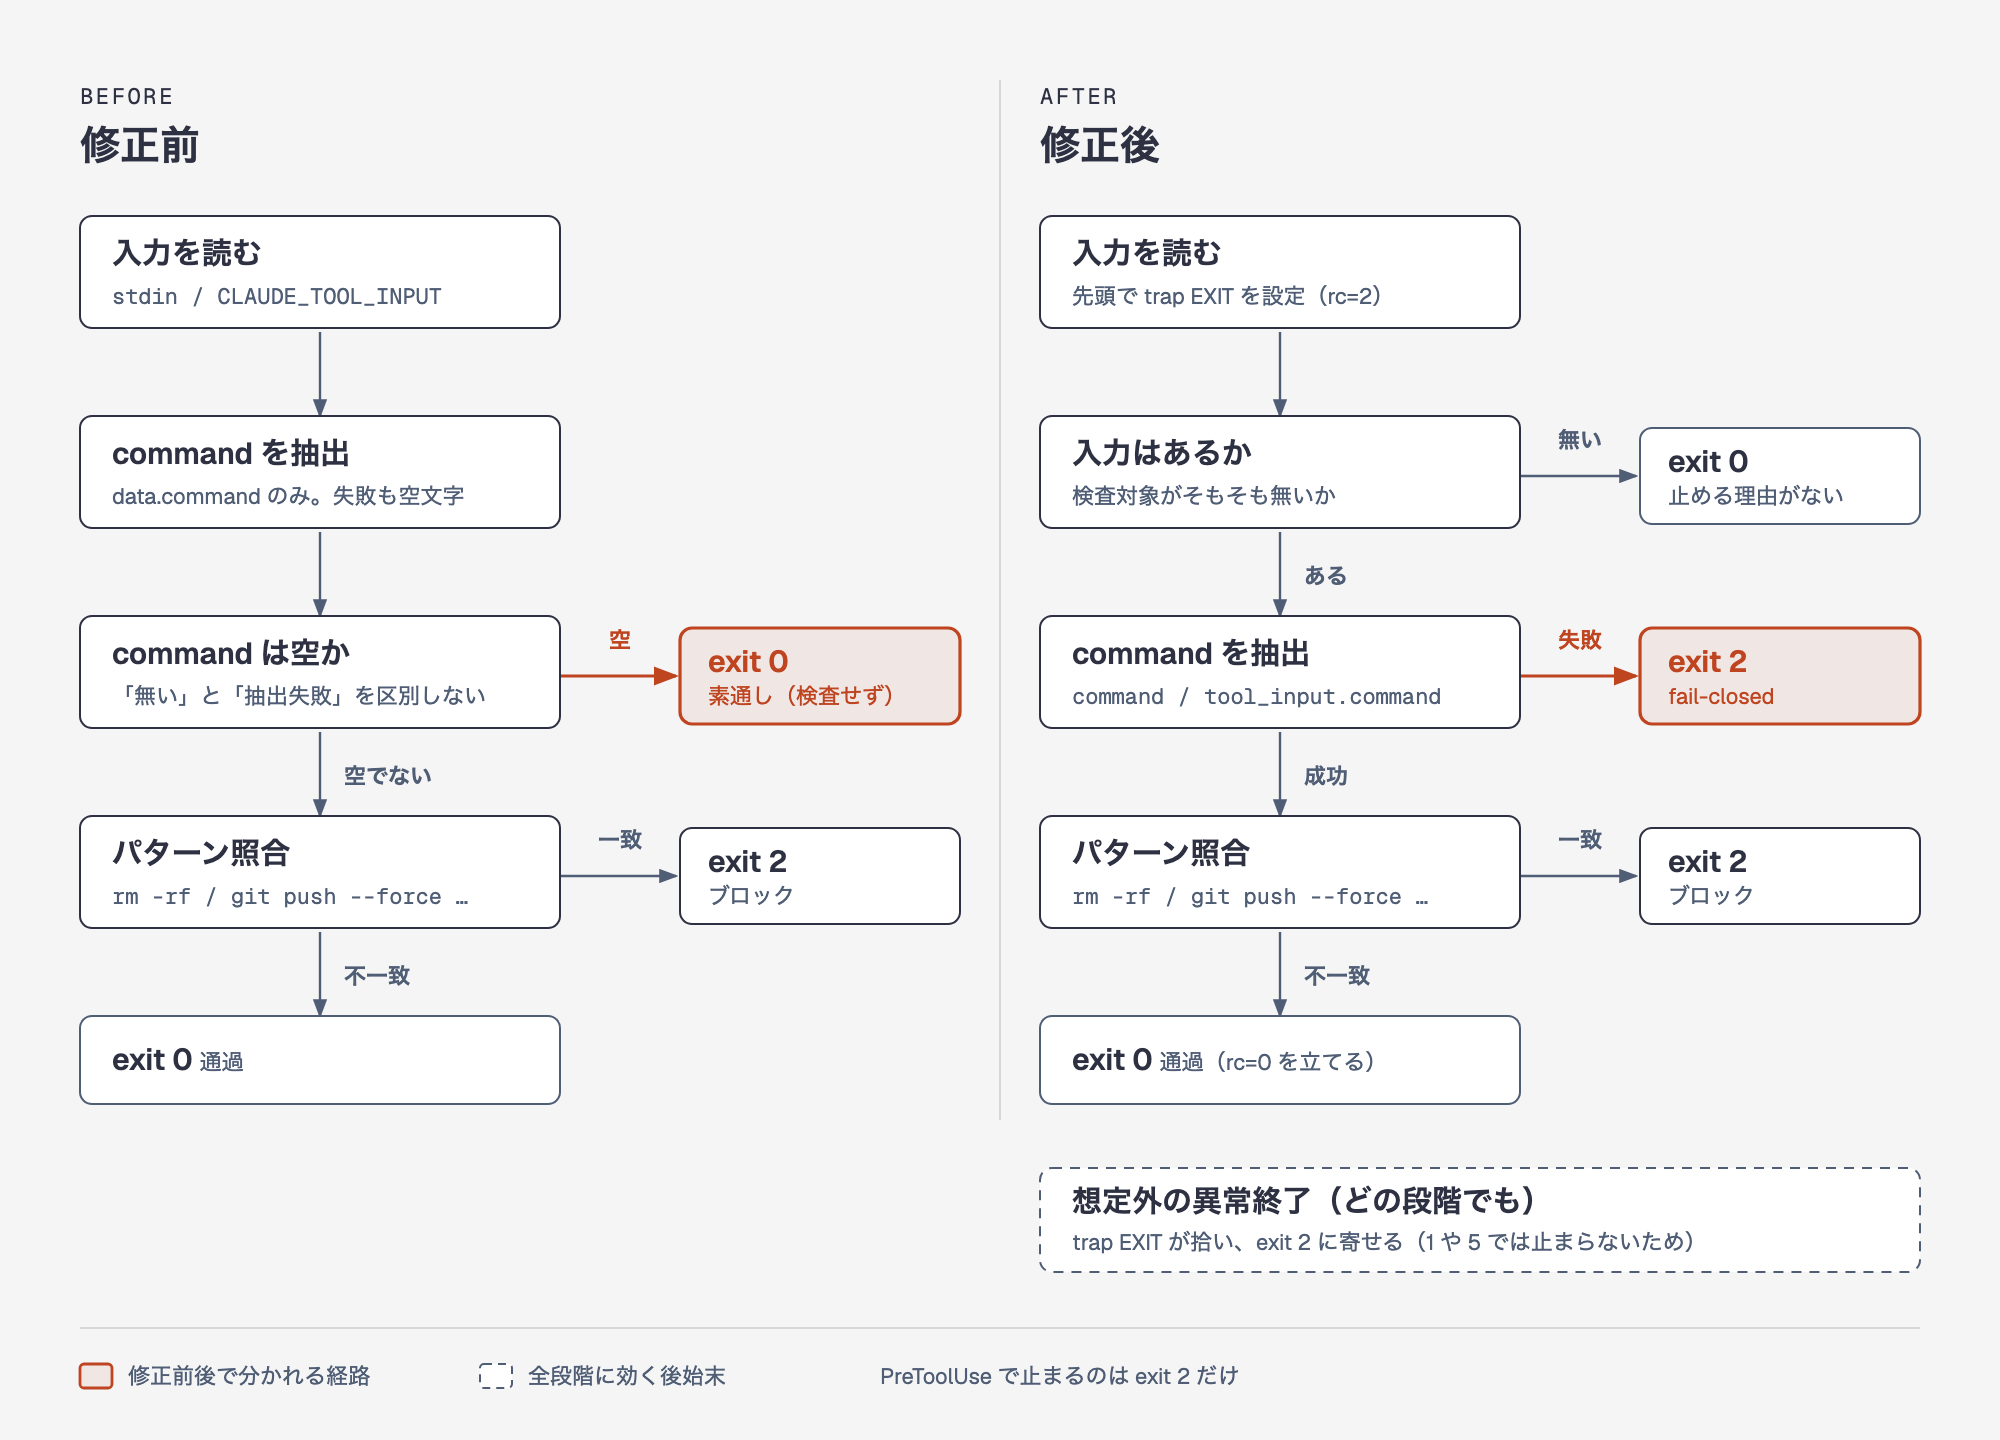
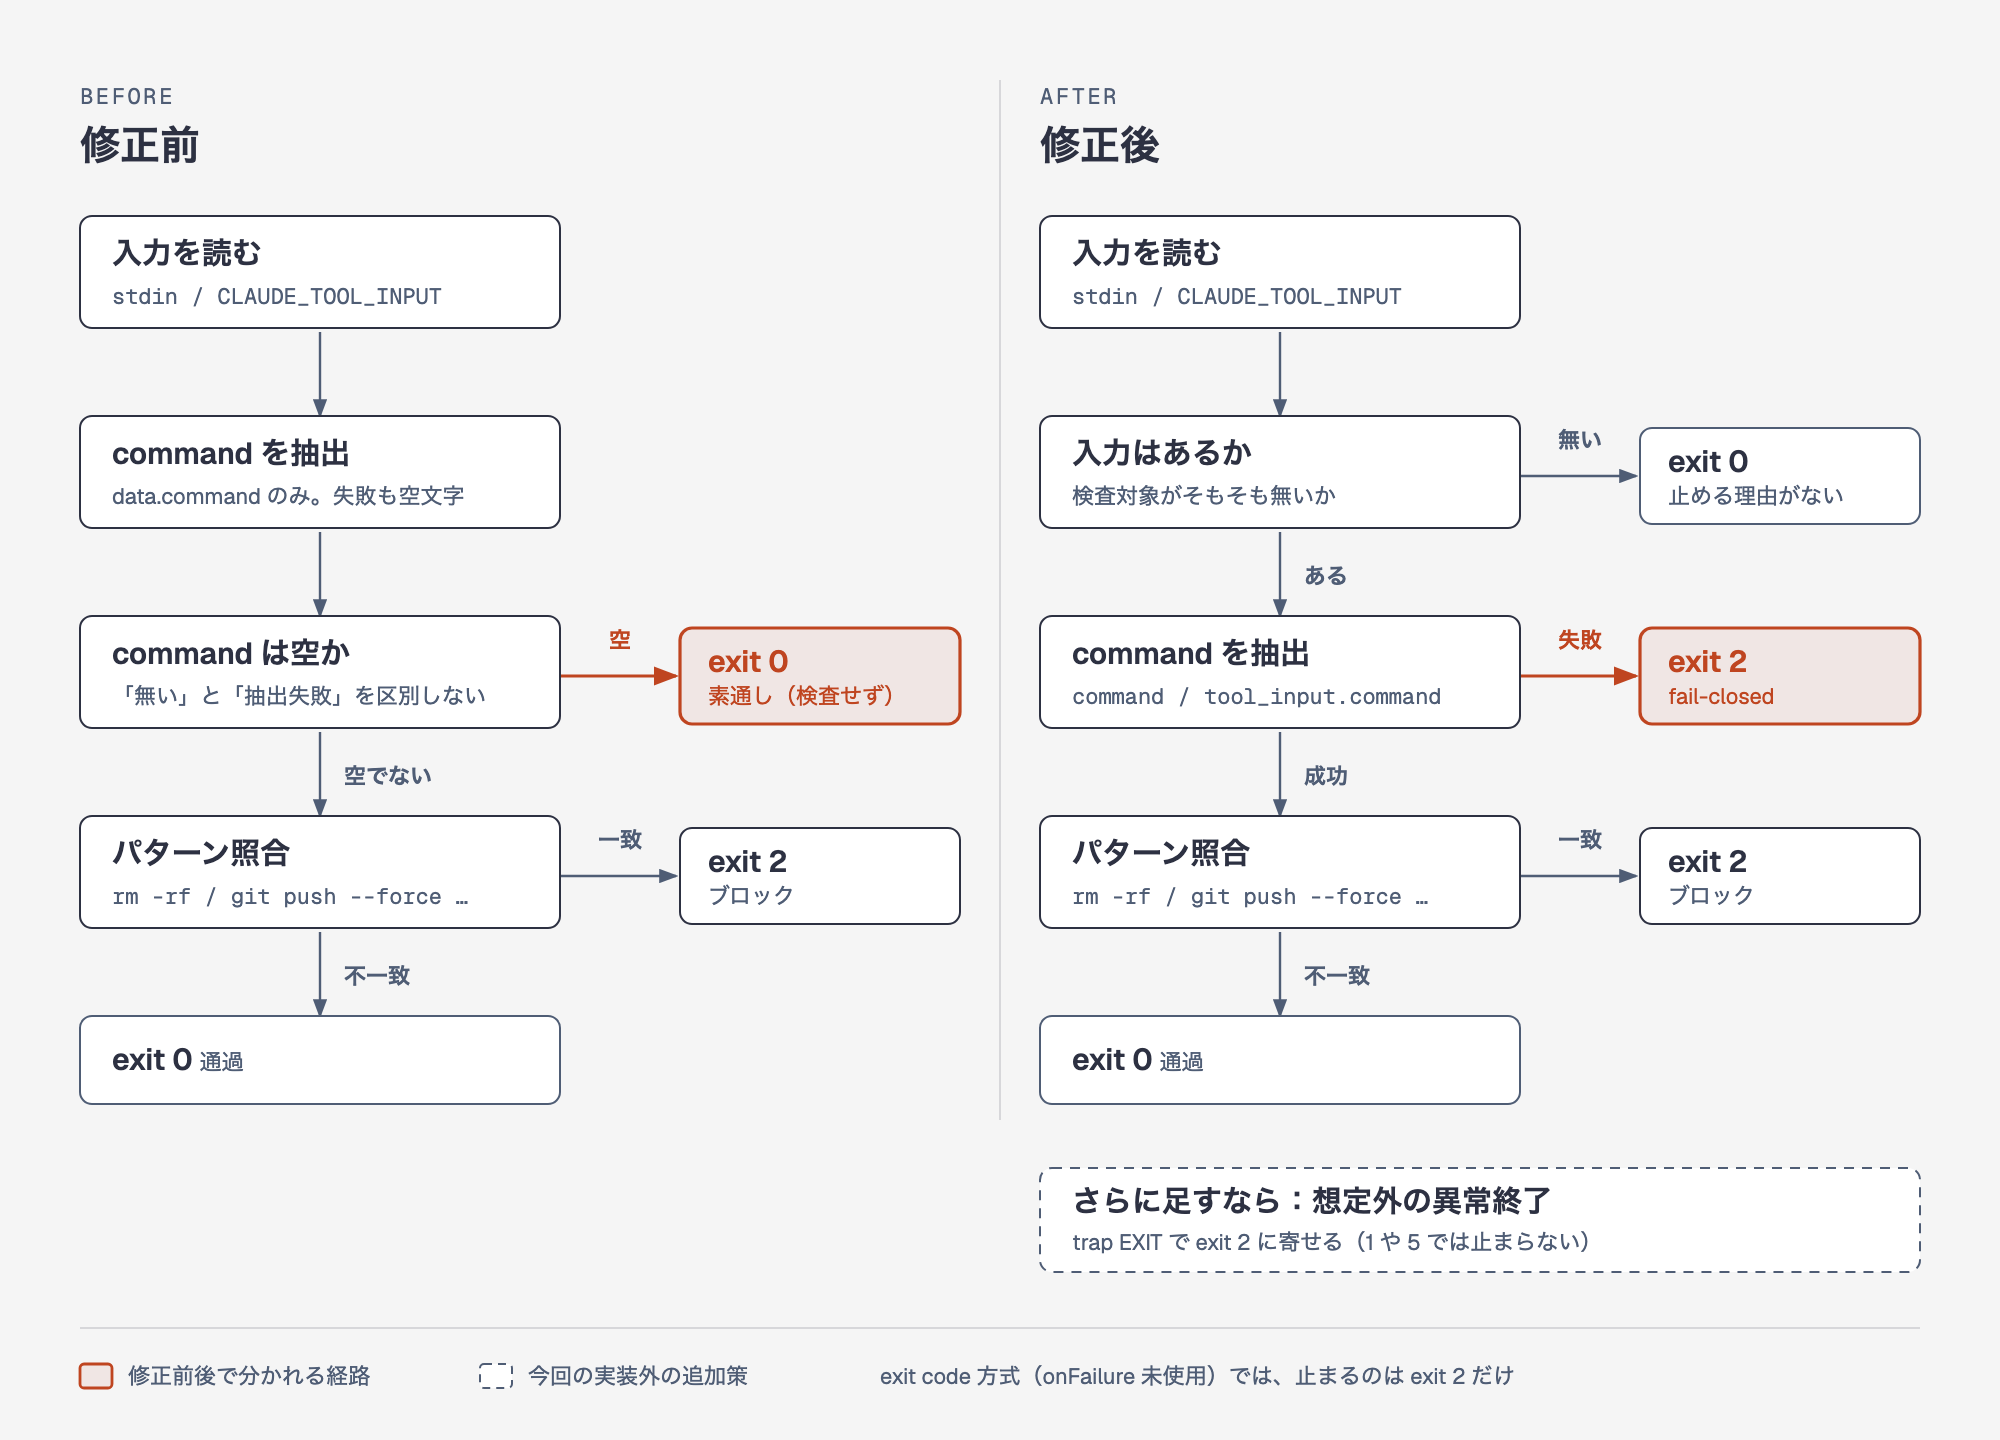
docs(zenn): mark trap EXIT as optional and qualify exit 2 claim in hook-fail-open

diff --git a/articles/claude-code-hook-fail-open.md b/articles/claude-code-hook-fail-open.md
@@ -278,7 +278,9 @@ if [ -z "$tool_input" ] && [ -z "$command" ]; then
 fi
 ```
 
-![修正前は command が空なら exit 0 で素通しし、修正後は入力が無いときだけ通して抽出失敗と異常終了を exit 2 で止める判定フローの比較](/images/claude-code-hook-fail-open/decision-flow.png)
+修正前後の判定の流れを並べると、次のようになります。
+
+![修正前は command が空なら exit 0 で素通しし、修正後は入力が無いときだけ通して抽出失敗を exit 2 で止める判定フローの比較](/images/claude-code-hook-fail-open/decision-flow.png)
 
 変えたのは 3 点です。
 
@@ -290,10 +292,10 @@ fi
 
 そのうえで、抽出に失敗したら `exit 2` で止めます。
 
-もうひとつ、**スクリプト自身が途中で死んだときも `exit 2` に寄せます**。`set -euo pipefail` のままだと、想定外のエラーで死んだときの終了コードは 2 以外になり、「exit code 2 以外は、ブロックではない」で見たとおりツール呼び出しは進みます。前節の `jq` 版が壊れた JSON で `exit 5` になって進んだのと同じ経路が、この実装にも残ります。スクリプトの先頭に次の 1 行を置いて、意図しない死に方も止める側へ倒しておきます。
+今回の修正はここまでです。ただし、**スクリプト自身が途中で死んだときの経路は残っています**。`set -euo pipefail` のままだと、想定外のエラーで死んだときの終了コードは 2 以外になり、「exit code 2 以外は、ブロックではない」で見たとおりツール呼び出しは進みます。前節の `jq` 版が壊れた JSON で `exit 5` になって進んだのと同じ経路です。さらに足すなら、スクリプトの先頭に次の 2 行を置いて、意図しない死に方も止める側へ倒せます。
 
 ```bash
-# 正常終了の直前で rc=0 に落とす。それ以外の抜け方はすべて exit 2 になる
+# 意図して exit 0 する箇所では、直前で rc=0 を立てる。それ以外の抜け方は exit 2 になる
 rc=2
 trap '[ "$rc" -eq 0 ] || { echo "[safety] Blocked: hook が異常終了しました（fail-closed）。" >&2; exit 2; }' EXIT
 ```
@@ -306,7 +308,7 @@ trap '[ "$rc" -eq 0 ] || { echo "[safety] Blocked: hook が異常終了しまし
 | `set -u` の unbound 変数 | **1** | 2 |
 | 関数の中での失敗（`set -E` 無し） | **1** | 2 |
 
-`exit 1` はブロックになりません。**意図しない死に方ほど `ERR` をすり抜ける**ので、抜け道のない `EXIT` に寄せます。処理を最後まで通したら `rc=0` を立ててから `exit 0` します。
+`exit 1` はブロックになりません。**意図しない死に方ほど `ERR` をすり抜ける**ので、より広く拾える `EXIT` に寄せます。ただし `trap` を設定する前の失敗や、`SIGKILL` での強制終了までは拾えません。入力が無いときの `exit 0` も含め、意図して通す箇所ではすべて `rc=0` を立ててから `exit 0` します。
 
 ### フォールバックは「使わない」という選択もある
 
@@ -401,7 +403,7 @@ printf '%s' '{"tool_input":{"command":"rm -rf /"}}' \
 }
 ```
 
-スクリプト内の fail-closed（抽出失敗で `exit 2`、`trap EXIT`）と併用でき、スクリプトのパス間違いのように**スクリプトの外で起きる失敗**も止められます。一方、抽出に失敗しても `exit 0` で抜けるスクリプトは「失敗」にならないので、この設定では止まりません。抽出できなかったときに止めるのは、スクリプト側の役目として残ります。この記事の実測は v2.1.267 の exit code 方式で、`onFailure` は使っていません。
+スクリプト内の fail-closed（抽出失敗で `exit 2`、足すなら `trap EXIT`）と併用でき、スクリプトのパス間違いのように**スクリプトの外で起きる失敗**も止められます。一方、抽出に失敗しても `exit 0` で抜けるスクリプトは「失敗」にならないので、この設定では止まりません。抽出できなかったときに止めるのは、スクリプト側の役目として残ります。この記事の実測は v2.1.267 の exit code 方式で、`onFailure` は使っていません。
 
 ## おわりに
 
